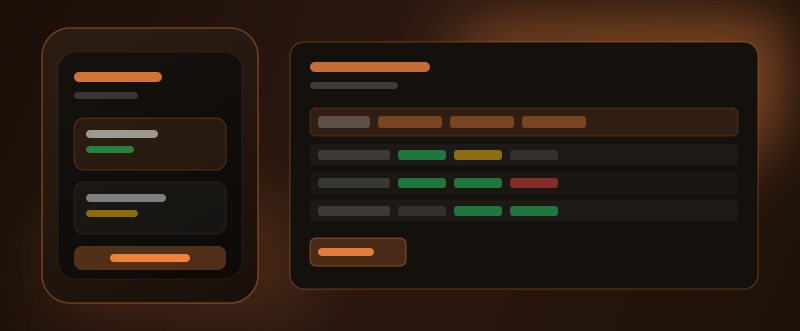
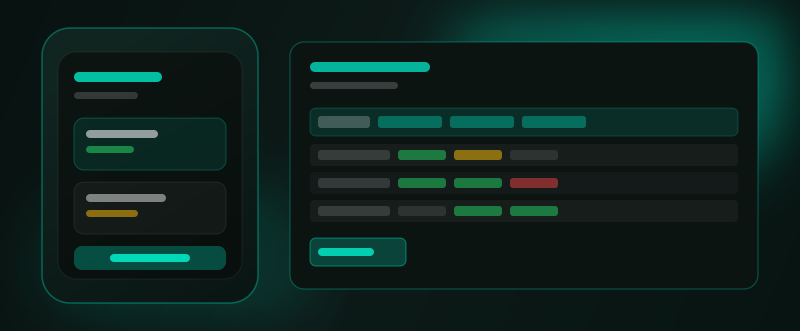
Retheme Qualifications Management with mint-teal accent to match portfolio identity.

diff --git a/case-study-qualifications.html b/case-study-qualifications.html
@@ -18,8 +18,8 @@
       --muted: rgba(255,255,255,0.65);
       --muted-2: rgba(255,255,255,0.45);
       --border: rgba(255,255,255,0.12);
-      --accent: #FF8C42;
-      --accent-dim: rgba(255,140,66,0.10);
+      --accent: #00E8C6;
+      --accent-dim: rgba(0, 232, 198, 0.10);
       --display: 'Manrope', system-ui, sans-serif;
       --mono: 'DM Mono', ui-monospace, monospace;
     }
@@ -43,13 +43,13 @@
     .header__cta:hover { background: var(--text); color: var(--bg); }
 
     .cover { display: flex; flex-direction: column; justify-content: flex-start; padding: clamp(2.5rem, 5vw, 3.5rem) 0 clamp(3rem, 6vw, 4rem); position: relative; overflow: hidden; }
-    .cover__bg-grid { position: absolute; inset: 0; background-image: linear-gradient(rgba(255,255,255,0.03) 1px, transparent 1px), linear-gradient(90deg, rgba(255,255,255,0.03) 1px, transparent 1px); background-size: 60px 60px; pointer-events: none; }
+    .cover__bg-grid { position: absolute; inset: 0; background-image: linear-gradient(rgba(0,232,198,0.05) 1px, transparent 1px), linear-gradient(90deg, rgba(0,232,198,0.05) 1px, transparent 1px), linear-gradient(rgba(255,255,255,0.02) 1px, transparent 1px), linear-gradient(90deg, rgba(255,255,255,0.02) 1px, transparent 1px); background-size: 60px 60px, 60px 60px, 12px 12px, 12px 12px; pointer-events: none; }
     .cover__bg-glow { position: absolute; top: -20%; right: -10%; width: 600px; height: 600px; background: radial-gradient(circle, var(--accent-dim) 0%, transparent 70%); pointer-events: none; }
     .cover__content { position: relative; z-index: 1; }
     .cover__eyebrow { display: flex; align-items: center; gap: 0.75rem; margin-bottom: 1.75rem; }
     .cover__dot { width: 8px; height: 8px; background: var(--accent); border-radius: 50%; flex-shrink: 0; }
     .label { font-family: var(--mono); font-size: 0.75rem; font-weight: 300; color: var(--accent); letter-spacing: 0.08em; text-transform: lowercase; }
-    .cover__title { font-size: clamp(3rem, 8vw, 7rem); font-weight: 500; line-height: 0.95; letter-spacing: -0.04em; margin-bottom: 1.5rem; }
+    .cover__title { font-size: clamp(3.5rem, 9vw, 8rem); font-weight: 500; line-height: 0.95; letter-spacing: -0.04em; margin-bottom: 1.5rem; }
     .cover__title span { color: var(--accent); }
     .cover__subtitle { font-size: clamp(1rem, 2vw, 1.3rem); color: var(--muted); font-weight: 300; max-width: 68ch; line-height: 1.65; margin-bottom: 3rem; }
     .pill-row { display: flex; flex-wrap: wrap; gap: 0.5rem; }
@@ -65,7 +65,7 @@
       gap: 0.6rem;
       padding: 2rem;
       text-align: center;
-      border: 1px dashed rgba(255,255,255,0.14);
+      border: 1px dashed rgba(0, 232, 198, 0.22);
       line-height: normal;
       min-height: 280px;
     }

diff --git a/index.html b/index.html
@@ -133,7 +133,7 @@
     /* Per-card accent borders — left + right, matching each card's color */
     .card-wrap:nth-child(1) .card-inner { border-left: 8px solid #00ff77; border-right: 8px solid #00ff77; }
     .card-wrap:nth-child(2) .card-inner { border-left: 8px solid #A259FF; border-right: 8px solid #A259FF; }
-    .card-wrap:nth-child(3) .card-inner { border-left: 8px solid #FF8C42; border-right: 8px solid #FF8C42; }
+    .card-wrap:nth-child(3) .card-inner { border-left: 8px solid #00E8C6; border-right: 8px solid #00E8C6; }
 
     /* The actual visible card — scale is applied here by JS */
     .card-inner {
@@ -493,7 +493,7 @@
         <!-- Card 3 — Qualifications Management -->
         <div class="card-wrap">
           <div class="card-inner">
-            <a class="p-card" href="/case-study-qualifications" style="background:#FF8C42;color:#000;">
+            <a class="p-card" href="/case-study-qualifications" style="background:#00E8C6;color:#000;">
               <div class="p-card__bar">
                 <span>2026</span>
                 <span>Product Designer &middot; Construction SaaS</span>

diff --git a/case-study-2.html b/case-study-2.html
@@ -666,7 +666,7 @@
           </div>
         </a>
 
-        <a class="more-work__card" href="/case-study-qualifications" style="background:#FF8C42;color:#000;">
+        <a class="more-work__card" href="/case-study-qualifications" style="background:#00E8C6;color:#000;">
           <div>
             <p class="more-work__meta" style="color:rgba(0,0,0,0.6);">2026 &middot; Construction SaaS &middot; Product Designer</p>
             <h3 class="more-work__title">Qualifications Management &mdash; Safety Credentials &amp; Compliance at Scale</h3>

diff --git a/case-study-meridian.html b/case-study-meridian.html
@@ -595,7 +595,7 @@
           </div>
         </a>
 
-        <a class="more-work__card" href="/case-study-qualifications" style="background:#FF8C42;color:#000;">
+        <a class="more-work__card" href="/case-study-qualifications" style="background:#00E8C6;color:#000;">
           <div>
             <p class="more-work__meta" style="color:rgba(0,0,0,0.6);">2026 &middot; Construction SaaS &middot; Product Designer</p>
             <h3 class="more-work__title">Qualifications Management &mdash; Safety Credentials &amp; Compliance at Scale</h3>

diff --git a/work.html b/work.html
@@ -353,7 +353,7 @@
           </a>
 
           <!-- Qualifications Management -->
-          <a class="p-card" href="/case-study-qualifications" style="--card-accent:#FF8C42;">
+          <a class="p-card" href="/case-study-qualifications" style="--card-accent:#00E8C6;">
             <div class="p-card__thumb">
               <picture>
                 <source srcset="/assets/qualifications-hero.webp" type="image/webp" />